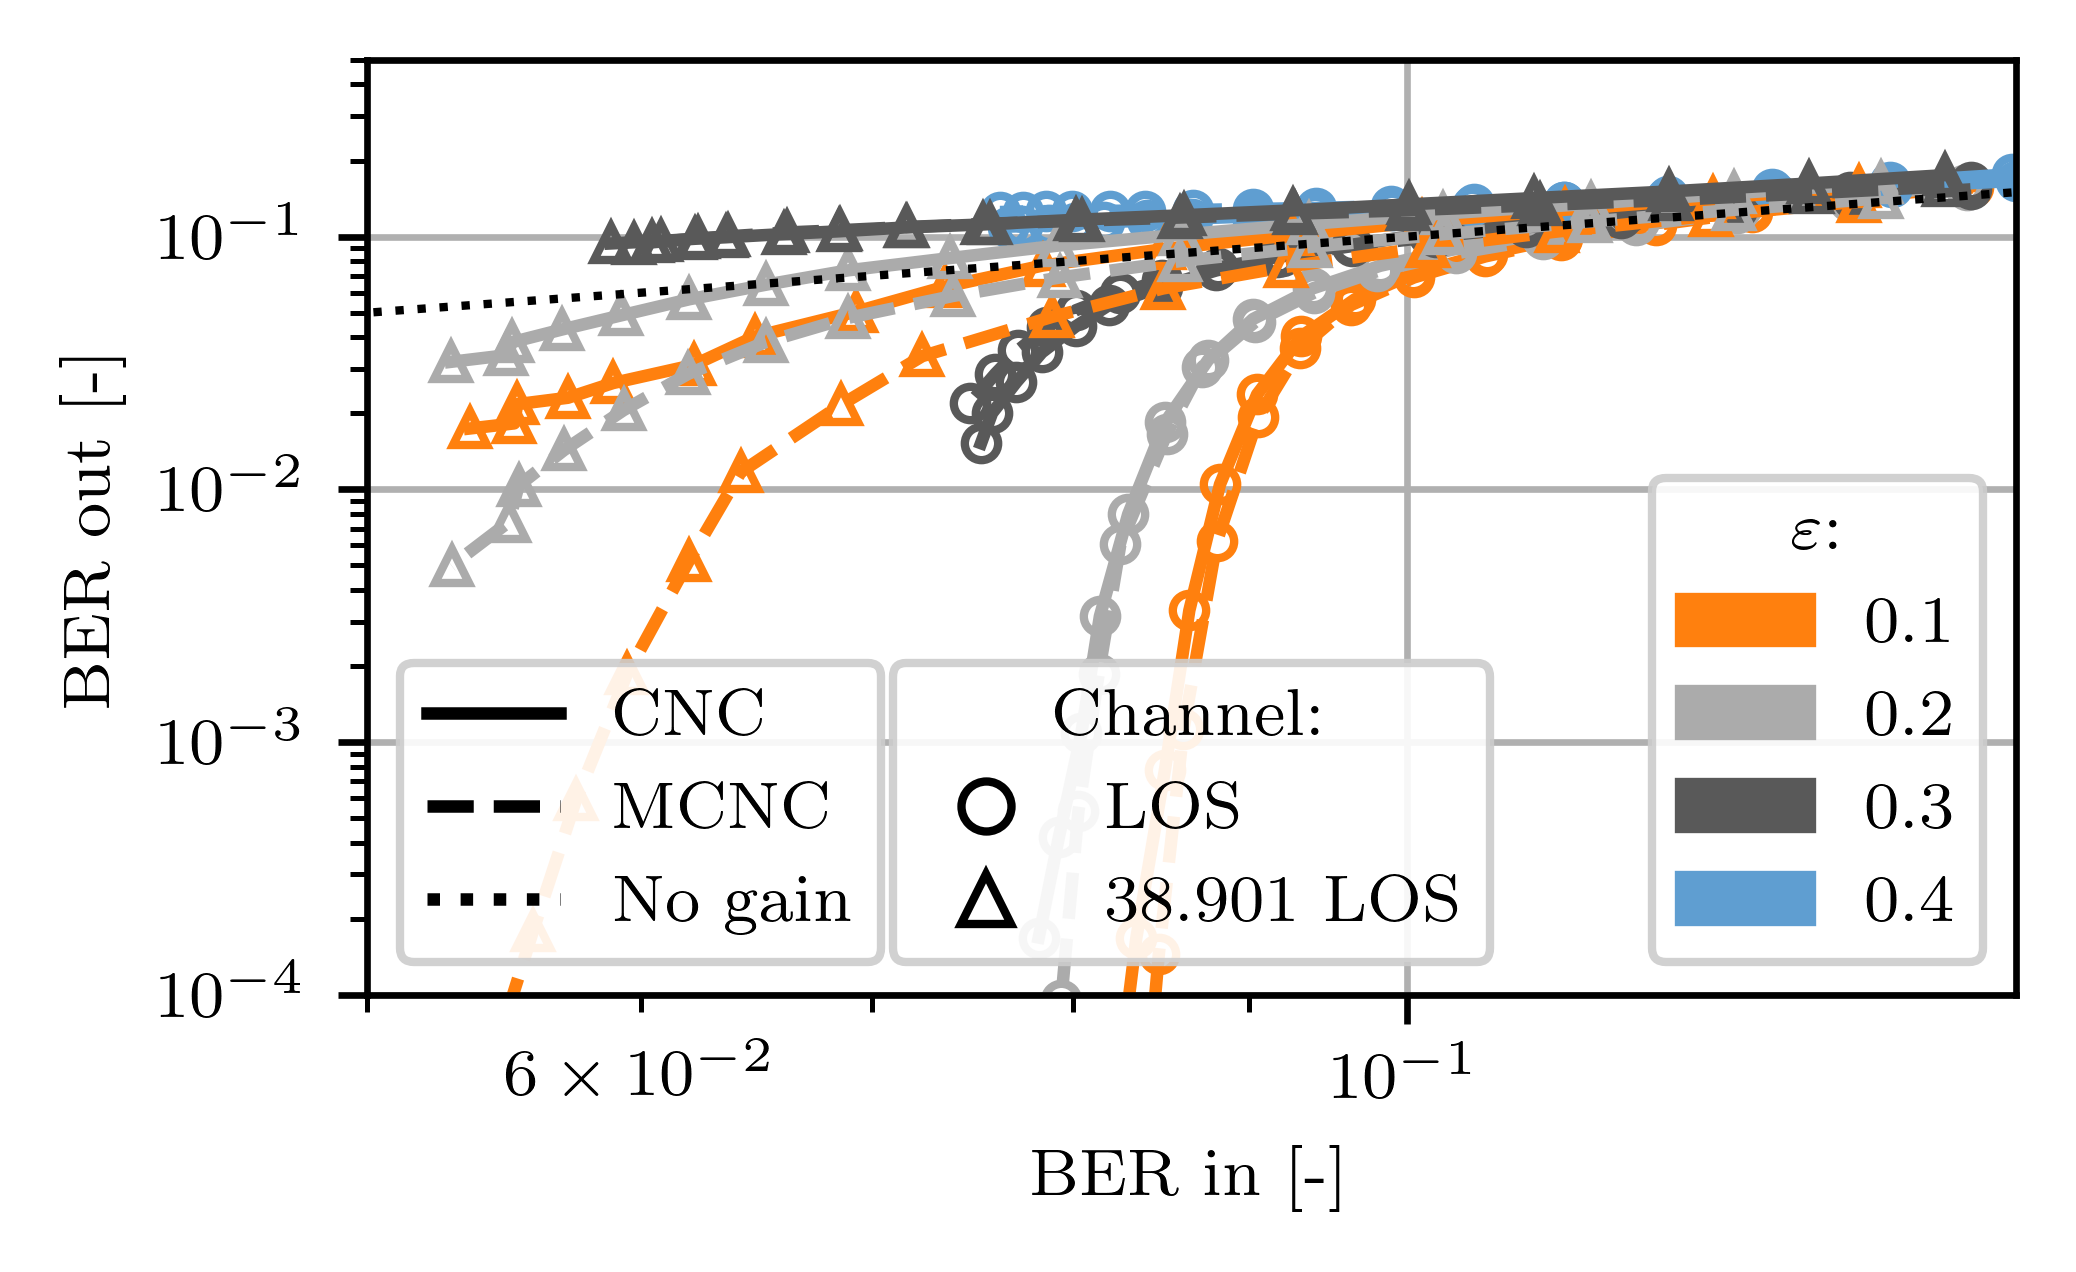
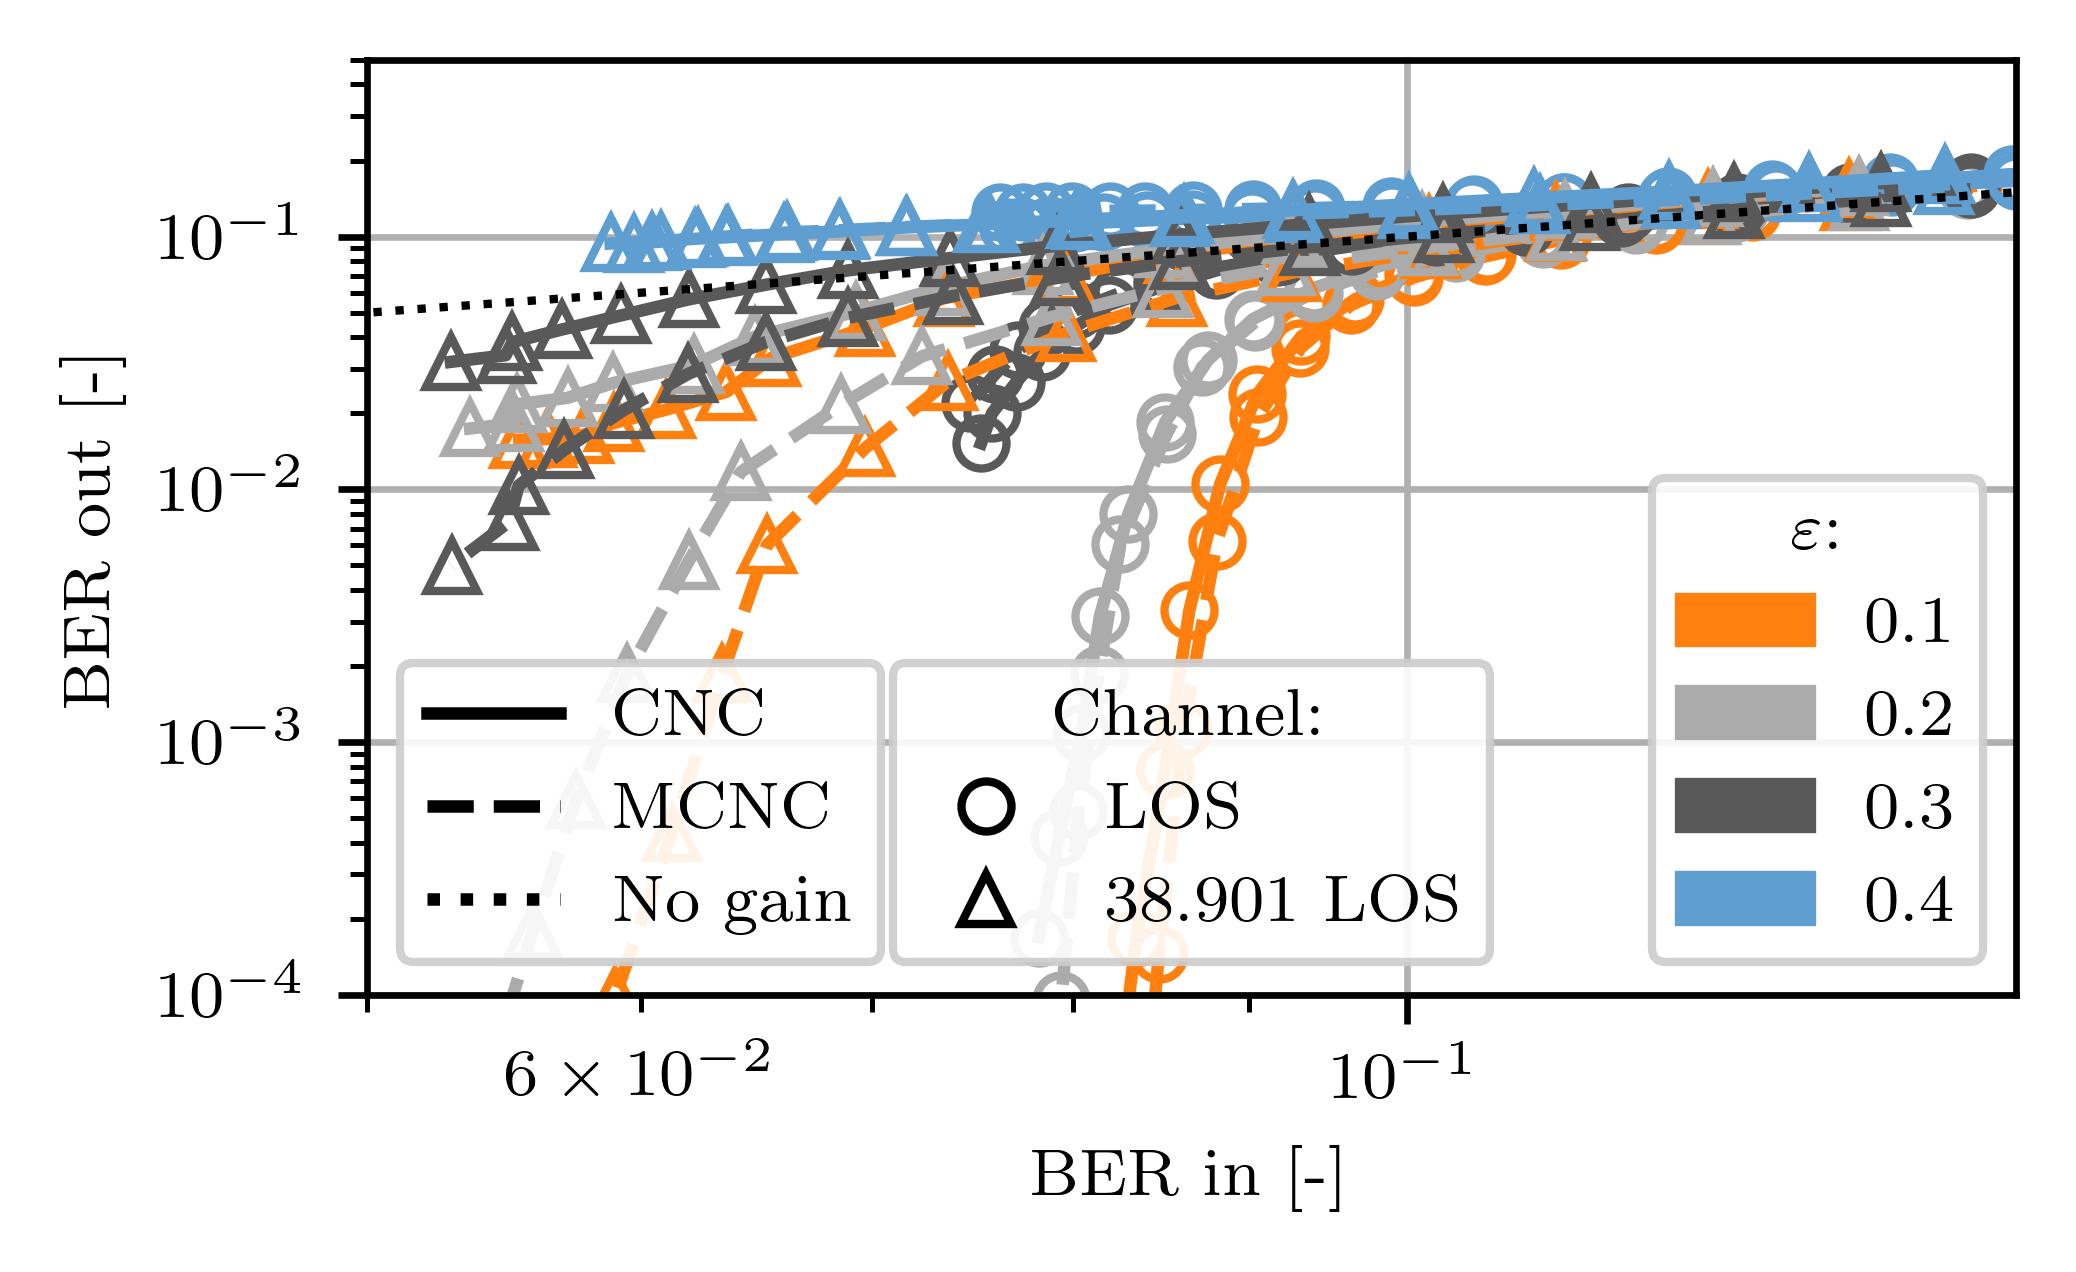
added prototype plots of the csi error influence on cnc/mcnc performance

diff --git a/final_plots/ber_vs_csi_err.py b/final_plots/ber_vs_csi_err.py
@@ -61,7 +61,7 @@ my_miso_chan_quadriga = "quadriga"
 cnc_quadriga_bers_per_eps = []
 mcnc_quadriga_bers_per_eps = []
 ebno_quadriga_lst = []
-quadriga_csi_eps_lst = [0.2, 0.3, 0.4, 0.5, 0.6, 0.7]
+quadriga_csi_eps_lst = [0.01, 0.1, 0.2, 0.3, 0.4, 0.5, 0.6, 0.7]
 
 for eps_idx, eps_val in enumerate(quadriga_csi_eps_lst):
     cnc_quadriga_filename_str = "ber_vs_ebn0_cnc_%s_csi_eps%1.3f_nant%d_ibo%d_ebn0_min%d_max%d_step%1.2f_niter%s" % (
@@ -105,8 +105,7 @@ for eps_idx, eps_val in enumerate(csi_eps_lst):
                 continue
             if cnc_iter_val in sel_cnc_ite_lst:
                 ax1.plot(ebno_lst[0], cnc_los_bers_per_eps[eps_idx][ite_idx + 1], "-", color=CB_color_cycle[color_idx], marker=marker_lst[marker_idx], fillstyle='none')
-                ax1.plot(ebno_lst[0], mcnc_los_bers_per_eps[eps_idx][ite_idx + 1], "--", color=CB_color_cycle[color_idx],
-                     marker=marker_lst[marker_idx], fillstyle='none')
+                ax1.plot(ebno_lst[0], mcnc_los_bers_per_eps[eps_idx][ite_idx + 1], "--", color=CB_color_cycle[color_idx], marker=marker_lst[marker_idx], fillstyle='none')
             if cnc_iter_val in sel_cnc_ite_lst or cnc_iter_val == 1:
                 color_idx += 1
         marker_idx += 1
@@ -171,19 +170,19 @@ for eps_idx, eps_val in enumerate(csi_eps_lst):
     if eps_val in sel_eps_lst:
         for ite_idx, cnc_iter_val in enumerate(cnc_n_iter_lst):
             if cnc_iter_val in sel_cnc_ite_lst:
-                ax2.plot(cnc_los_bers_per_eps[eps_idx][1], cnc_los_bers_per_eps[eps_idx][ite_idx + 1], "-", color=CB_color_cycle[color_idx], marker=marker_lst[0], fillstyle='none', markersize=4)
-                ax2.plot(mcnc_los_bers_per_eps[eps_idx][1], mcnc_los_bers_per_eps[eps_idx][ite_idx + 1], "--", color=CB_color_cycle[color_idx], marker=marker_lst[0], fillstyle='none', markersize=4)
+                ax2.plot(cnc_los_bers_per_eps[eps_idx][1], cnc_los_bers_per_eps[eps_idx][ite_idx + 1], "-", color=CB_color_cycle[color_idx], marker=marker_lst[0], fillstyle='none')
+                ax2.plot(mcnc_los_bers_per_eps[eps_idx][1], mcnc_los_bers_per_eps[eps_idx][ite_idx + 1], "--", color=CB_color_cycle[color_idx], marker=marker_lst[0], fillstyle='none')
         color_idx += 1
+
 # Quadriga LOS channel
 marker_idx = 0
 color_idx = 1
-
 for eps_idx, eps_val in enumerate(quadriga_csi_eps_lst):
     if eps_val in sel_eps_lst:
         for ite_idx, cnc_iter_val in enumerate(cnc_n_iter_lst):
             if cnc_iter_val in sel_cnc_ite_lst:
-                ax2.plot(cnc_quadriga_bers_per_eps[eps_idx][1], cnc_quadriga_bers_per_eps[eps_idx][ite_idx + 1], "-", color=CB_color_cycle[color_idx], marker=marker_lst[1], fillstyle='none', markersize=4)
-                ax2.plot(mcnc_quadriga_bers_per_eps[eps_idx][1], mcnc_quadriga_bers_per_eps[eps_idx][ite_idx + 1], "--", color=CB_color_cycle[color_idx], marker=marker_lst[1], fillstyle='none', markersize=4)
+                ax2.plot(cnc_quadriga_bers_per_eps[eps_idx][1], cnc_quadriga_bers_per_eps[eps_idx][ite_idx + 1], "-", color=CB_color_cycle[color_idx], marker=marker_lst[1], fillstyle='none')
+                ax2.plot(mcnc_quadriga_bers_per_eps[eps_idx][1], mcnc_quadriga_bers_per_eps[eps_idx][ite_idx + 1], "--", color=CB_color_cycle[color_idx], marker=marker_lst[1], fillstyle='none')
         color_idx += 1
 
 marker_leg_lst = []
